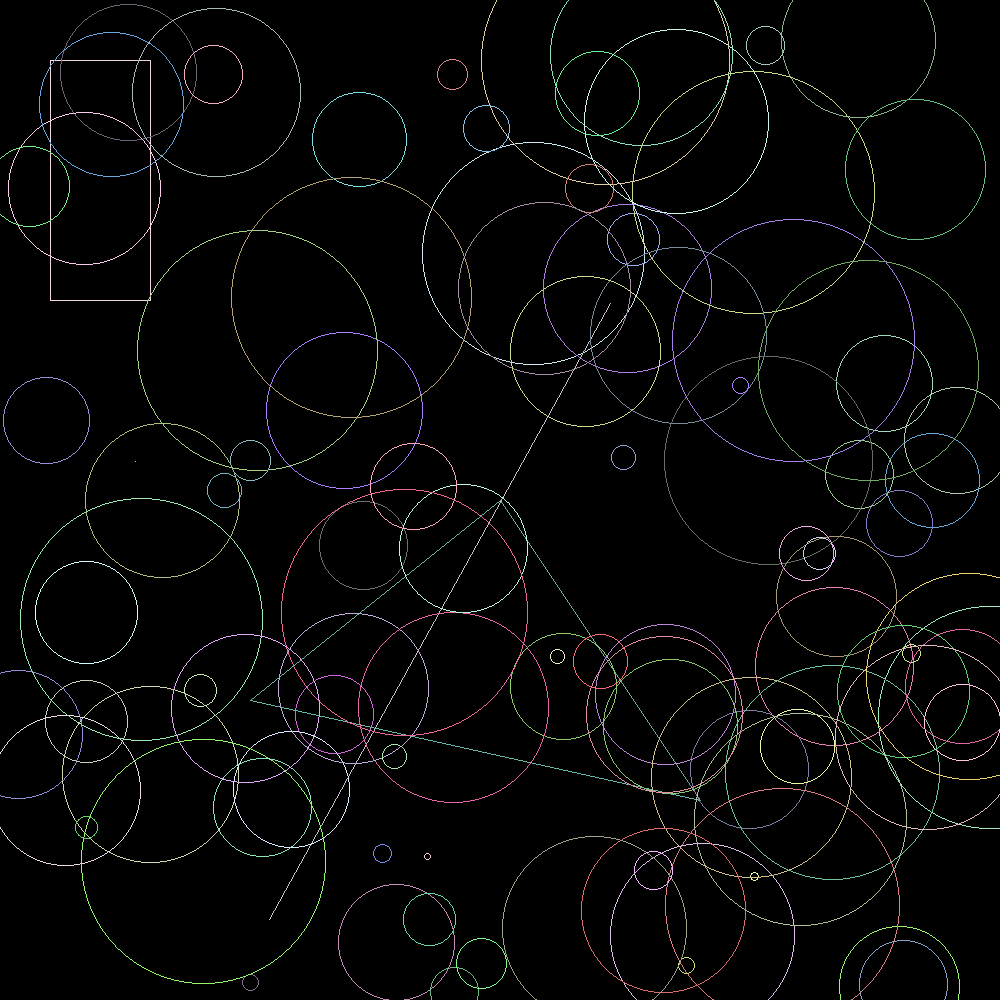
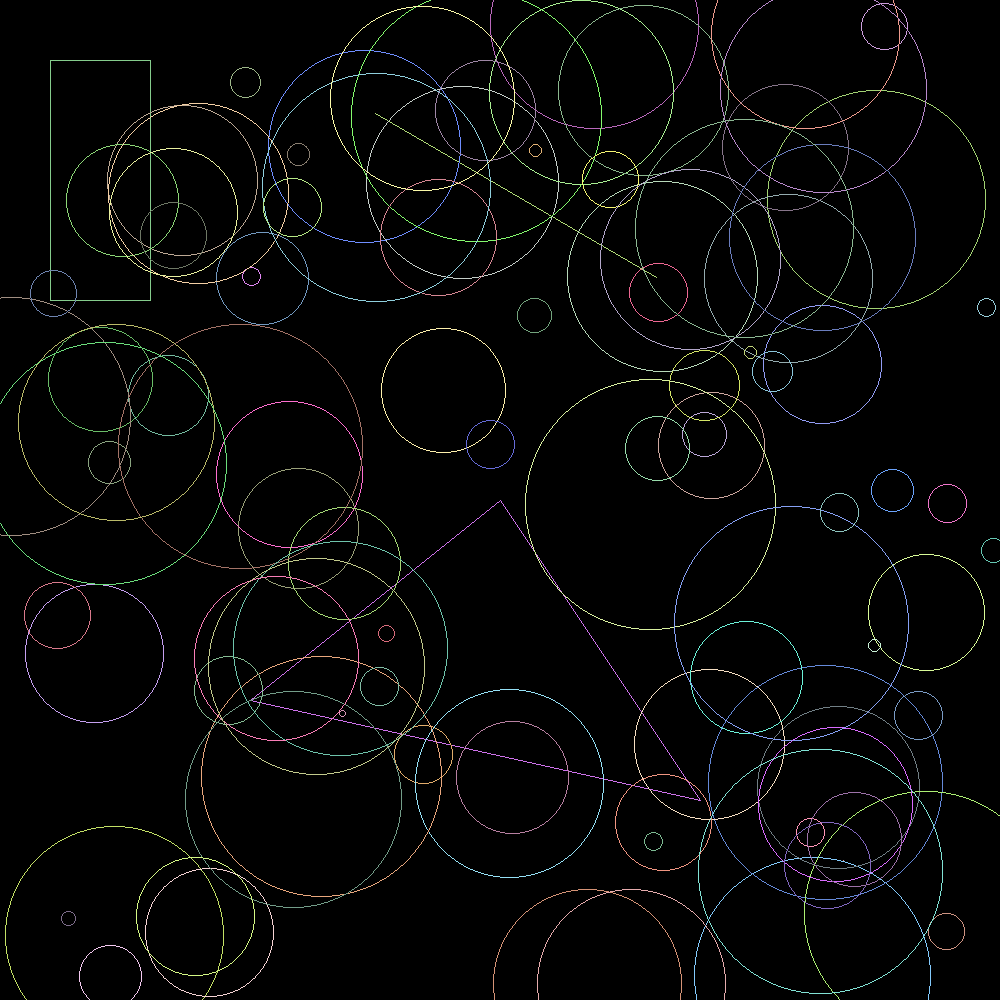
up the mod

diff --git a/src/geometrical_shapes/mod.rs b/src/geometrical_shapes/mod.rs
@@ -18,11 +18,6 @@ pub trait Drawable {
     fn color(&self) -> Color;
 }
 
-#[allow(dead_code)]
-pub trait Displayable {
-    fn display(&mut self, x: i32, y: i32, color: Color);
-}
-
 pub(crate) fn display_pixel(image: &mut Image, x: i32, y: i32, color: Color) {
     if x >= 0 && x < image.width && y >= 0 && y < image.height {
         image.set_pixel(x, y, color).unwrap();
